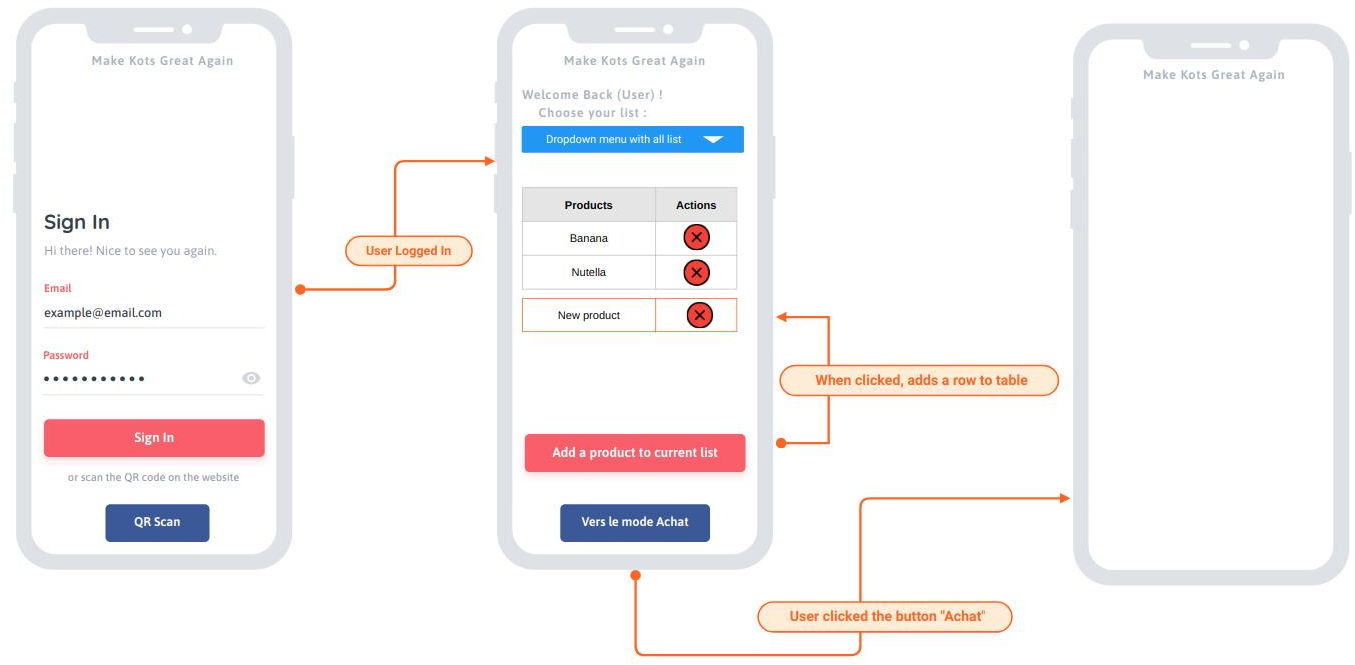
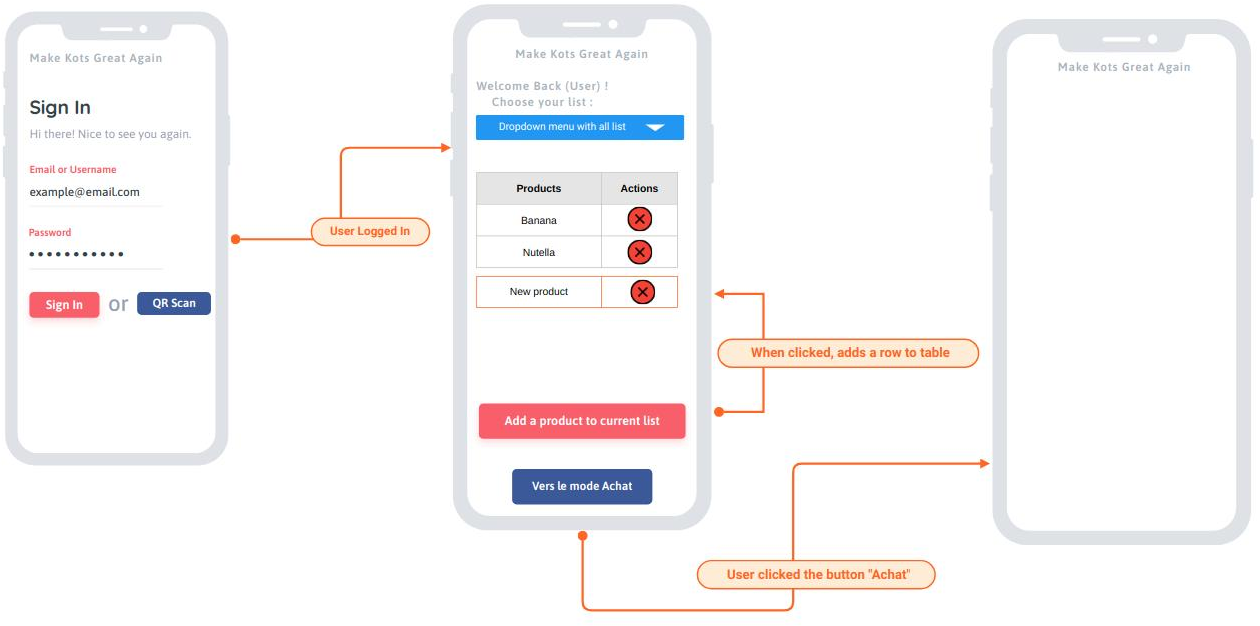
updated Readme with new mocup

Changed region(s): [[0.0, 0.0, 0.9595, 1.0], [0.8048, 0.0607, 1.0, 0.8802]]

diff --git a/README.md b/README.md
@@ -8,6 +8,8 @@ Target audience | IDE | Language
 
 ### Mocup
 
+Link to Mocup => https://app.moqups.com/srj025RSEb/view/page/ae8fe8eb0
+
 <img src="./img/mocup.png">
 
 ### Demo
